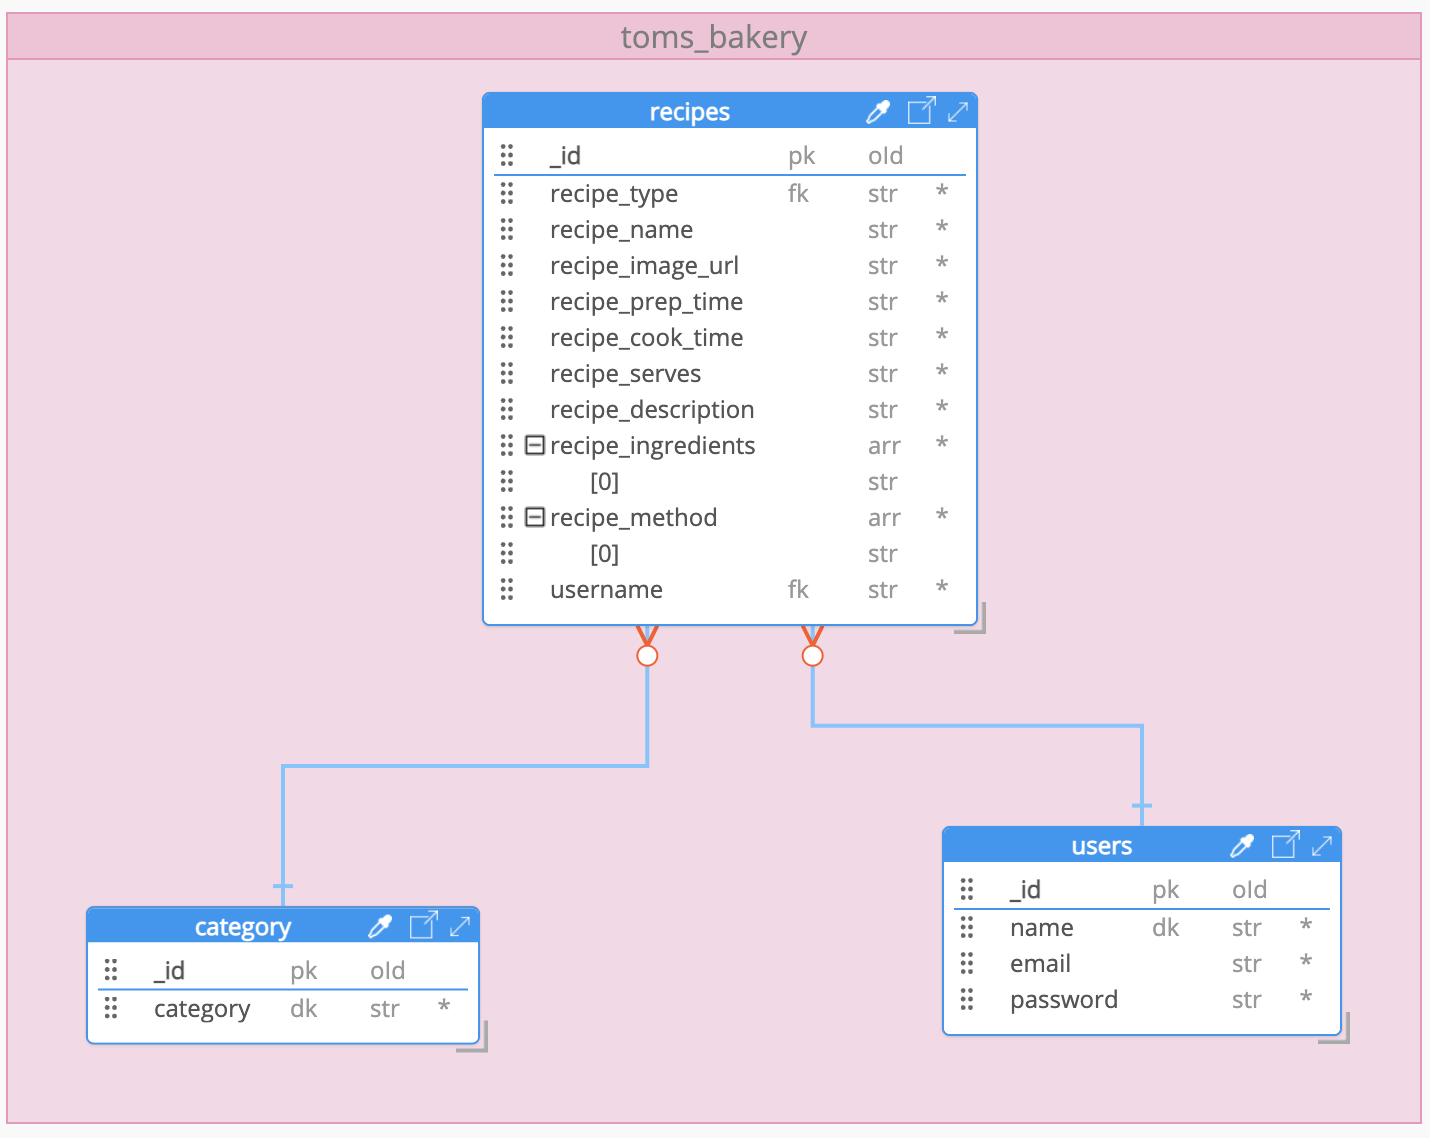
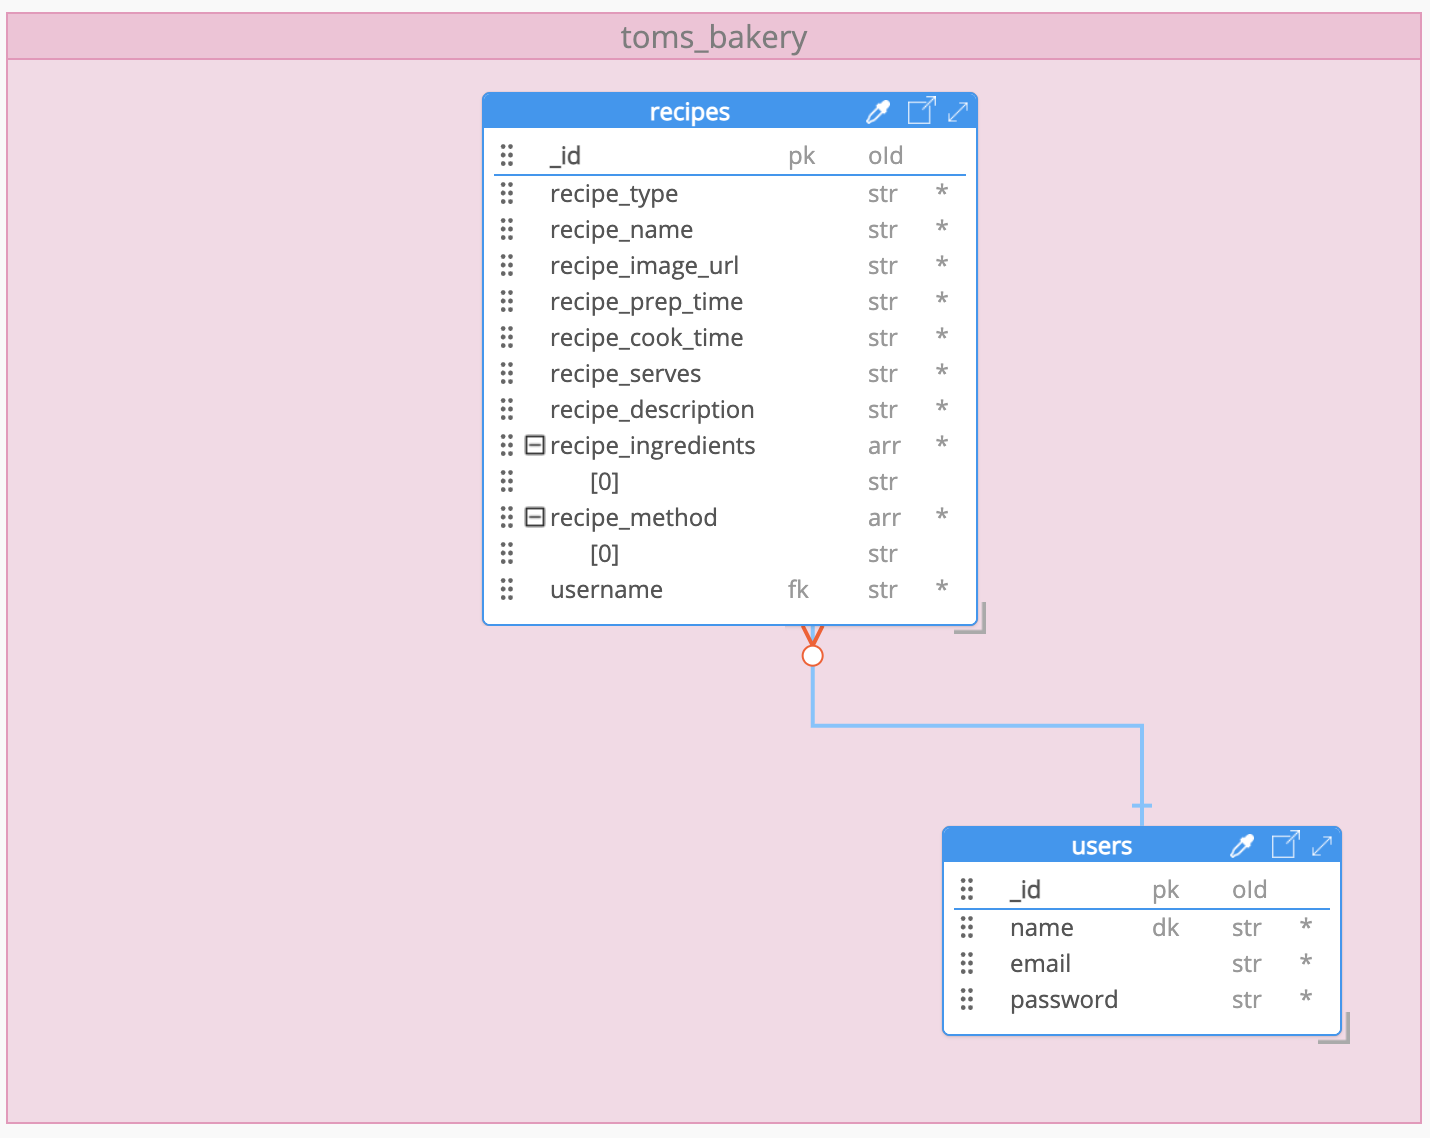
Database schema info added

Changed region(s): [[0.0615, 0.7689, 0.3385, 0.9227], [0.2154, 0.5536, 0.4615, 0.6766]]

diff --git a/README.md b/README.md
@@ -123,7 +123,21 @@ The images I used for this project came from [BBC Goodfood](https://www.bbcgoodf
 # Database
 
 ### Schema
-Below is the schema for my database:
+Below is the schema for my database, For the purpose of this assignment I used a NoSQL database structure with MongoDB. Some debate exists about the merits or Relational vs Non Relational databases and their sutability for projects such as this, however this was chosen based on the course structure.
+
+The types of data stored in MongoDB for this project are:
+- ObjectId
+- String
+- Array
+
+The schema contains two related collections, with both containing multiple documents.
+
+#### Users
+Collects the users name, email and password. Information is used for login on website. The name document is also accsesed by the recipes collection to display user data.
+
+#### Recipes
+Displays all recipe information created by the user. The array inputs allowd dynamic sizing as recipes don't have a standard number of steps or ingredients.
+
 
 #### Recipes
 
@@ -145,16 +159,10 @@ Below is the schema for my database:
 
 | Key                   |Value type     
 |:-------------         |:------------- 
-|_id                    |ObjectId       
+|_id                    |ObjectId 
+|name                   |string        
 |email                  |string         
 |password               |string  
-
-#### Category
-
-| Key                   |Value type     
-|:-------------         |:------------- 
-|_id                    |ObjectId       
-|category               |string         
 
 ## ERD
 ![ERD](static/images/database/erd-diagram.png "ERD")
